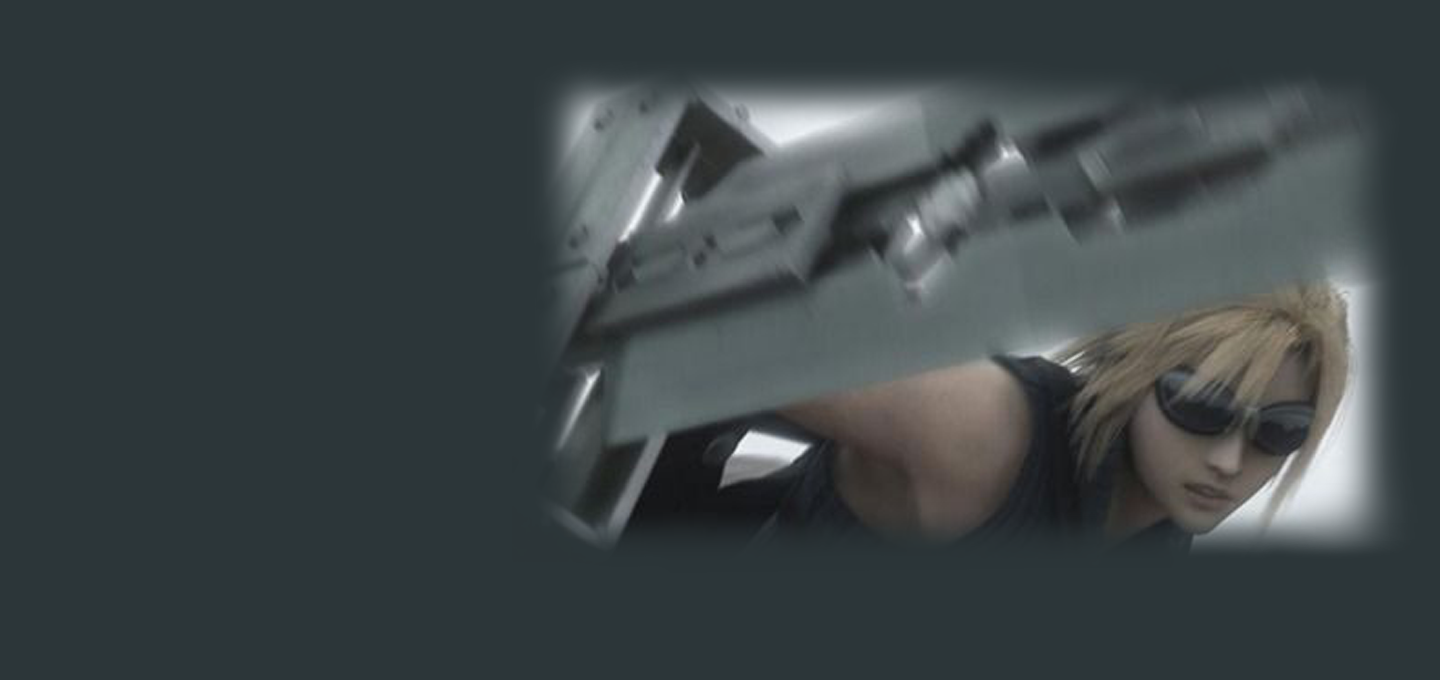
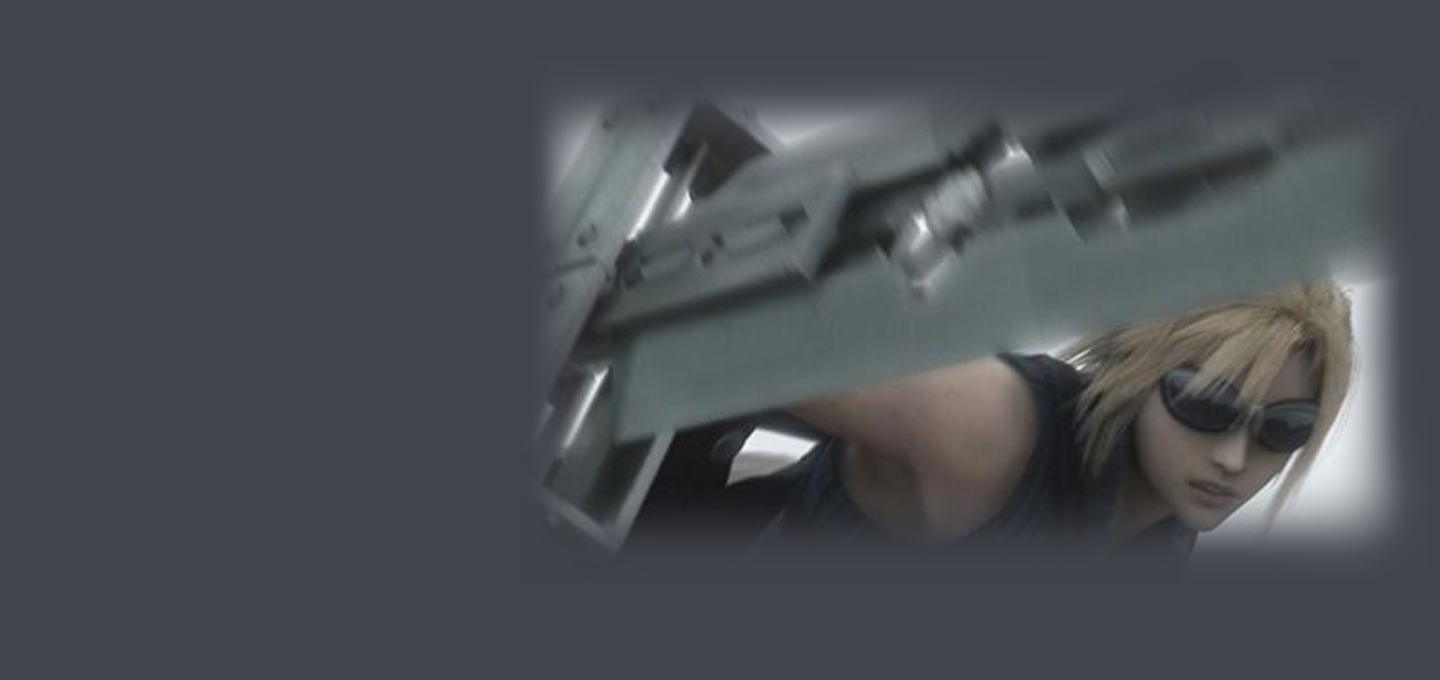
atualização 04/07/2023

diff --git a/cloud.plus/index.html b/cloud.plus/index.html
@@ -5,16 +5,91 @@
     <meta name="viewport" content="width=device-width, initial-scale=1.0">
     <title>Cloud Plus</title>
     <link rel="stylesheet" href="styles/style.css">
+    <link rel="preconnect" href="https://fonts.googleapis.com">
+    <link rel="preconnect" href="https://fonts.gstatic.com" crossorigin>
+    <link href="https://fonts.googleapis.com/css2?family=Inter:wght@400;700&display=swap" rel="stylesheet">
 </head>
 <body>
     <section class = "container principal">
-        <div>
-            <h1>Com o Combo+, você pode aproveitar o Cloud+ e o Cloud Tongue por um preço único.</h1>
-            <img src="./assex/Frame 1.png" alt="combo">
-            <a href="https://ffvii-remake-intergrade.square-enix-games.com/pt-br/?_gl=1*1295djt*_gcl_au*MzQ5Nzc0OS4xNjg4MDcxMzky" class="container__botao">assine por 12x de R$ 777,77*</a>
+        <div class="container__caixa">
+            <h1 class="container__titulo">Com o Combo+, você pode aproveitar o Cloud+ e o Cloud Tongue por um preço único.</h1>
+            <img class="container__imagem" src="./assex/Frame 1.png" alt="combo">
+            <a href="https://ffvii-remake-intergrade.square-enix-games.com/pt-br/?_gl=1*1295djt*_gcl_au*MzQ5Nzc0OS4xNjg4MDcxMzky" class="container__botao">Assine por 12x de R$ 777,77*</a>
             <a href="https://ffvii.square-enix-games.com/en-us/games/rebirth/?_gl=1*c58xfv*_gcl_au*MzQ5Nzc0OS4xNjg4MDcxMzky" class="container__botao botao__secundario">Assinar somente o Cloud+</a>
             <p class="container__aviso">*o preço pode variar caso a assinatura seja feita em outros planos.</p>
         </div>
     </section>
+
+    <section class="container secundario">
+        <img src="./assex/Plataformas-transformed.png" alt="mando mto na edicao de imagem" class="secundario__imagem">
+        <div class="container__descricao">
+            <h2 class="descricao__titulo">Jogue do seu jeito</h2>
+            <p class="descricao__texto">Aproveite a tela grande da TV ou jogue no tablet, laptop, celular e outros aparelhos. Nossa seleção de campanhas não para de crescer.</p>
+        </div>
+    </section>
+
+    <section class="container secundario">
+        <div class="container__descricao">
+            <p class="descricao__texto">Só o Combo+ oferece Cloud+ e Cloud Tongue juntos para você ter acesso a campanhas de diversas áreas da tecnologia e aprender inglês ou espanhol, onde e quando quiser.</p>
+            <a href="https://www.square-enix-games.com/en_US/home" class="container__botao secundario__botao">Assinar o Combo+</a>
+        </div>
+        <img src="./assex/Telas.png" alt="telinhas" class="secundario__imagem">
+    </section>
+
+    <section class="container secundario">
+        <img src="./assex/Notebook-transformed.png" alt="mando mto na edicao de imagem" class="secundario__imagem">
+        <div class="container__descricao">
+            <h2 class="descricao__titulo">Baixe seus jogos</h2>
+            <p class="descricao__texto">Baixe e jogue quando e onde quiser. Assim, seus favoritos estão sempre com você, até mesmo sem internet. </p>
+        </div>
+    </section>
+
+    <section class="dispositivos">
+        <h2 class="dispositivos__titulo">Disponível nos seus dispositivos favoritos</h2>
+        <ul class="dispositivos__lista">
+            <li>
+                <img src="./assex/tv.png" alt="tv">
+                <h3 class="lista__item">TV</h3>
+            </li>
+            <li>
+                <img src="./assex/computador.png" alt="computador">
+                <h3 class="lista__item">Computadores</h3>
+            </li>
+            <li>
+                <img src="./assex/celular.png" alt="celular">
+                <h3 class="lista__item">Celulares e Tablets</h3>
+            </li>
+        </ul>
+    </section>
+
+    <footer class="rodape">
+        <img src="./assex/Frame 2.png" alt="Cloud+" class="rodape__logo">
+        <ul class="rodape__lista">
+            <li class="lista__link">
+                <a href="#">Idioma</a>
+            </li>
+            <li class="lista__link">
+                <a href="#">Dispositivos compatíveis</a>
+            </li>
+            <li class="lista__link">
+                <a href="#">Contrato de assinatura</a>
+            </li>
+            <li class="lista__link">
+                <a href="#">Politica de privacidade</a>
+            </li>
+            <li class="lista__link">
+                <a href="#">Proteção de dados no Brasil</a>
+            </li>
+            <li class="lista__link">
+                <a href="#">Anuncios personalizados</a>
+            </li>
+            <li class="lista__link">
+                <a href="#">me Ajuda por favor</a>
+            </li>
+        </ul>
+        <p class="rodape__texto">® 2021 Alura, Alura+ e Alura Língua. Todos os direitos reservados. Serviço de assinatura paga. Conteúdo sujeito a disponibilidade.</p>
+        <p class="rodape__texto">Alura+ é um serviço pago, baseado em assinatura e sujeito a termos e condições. O serviço Alura+ é comercializado por Aovs Sistemas de Informática S.A., Rua Vergueiro, 3185 - Liberdade, São Paulo - SP, 04101-300, Brasil e CNPJ 05.555.382/0001-33</p>
+    </footer>
+
 </body>
 </html>

diff --git a/cloud.plus/styles/style.css b/cloud.plus/styles/style.css
@@ -6,27 +6,44 @@
 }
 
 :root {
-    --cor-primaria: #2C3639;
-    --cor-secundaria: #DCD7C9;
-    --cor-terciaria: #A27B5C;
-    --cor-quaternaria: #3F4E4F;
+    --cor-primaria: #41444B;
+    --cor-secundaria: #DFD8C8;
+    --cor-terciaria: #BBBB99;
+    --cor-quaternaria: #52575D;
+    --fonte-principal: 'Inter';
+    --cor-quintenaria: #e5e5c9;
+    
 }
 
 body {
     background-color: var(--cor-primaria);
     color: var(--cor-secundaria);
+    font-family: var(--fonte-principal);
+    font-size: 16px;
+    font-weight: 400;
 }
 
 .principal {
     background-image: url("../assex/Background.png");
     background-repeat: no-repeat;
     background-size: contain;
+    align-items: center;
+    text-align: center;
 }
 
 .container {
     height: 100vh;
     display: grid;
     grid-template-columns: 50% 50%;
+}
+
+.container__caixa {
+    margin: 0 6em;
+}
+
+.container__titulo {
+    font-size: 28px;
+    font-weight: 700;
 }
 
 .container__botao {
@@ -36,9 +53,108 @@ body {
     color: var(--cor-secundaria);
     text-decoration: none;
     display: block;
+    margin-bottom: 1em;
 }
 
 .botao__secundario {
     background-color: transparent;
     border: 2px solid var(--cor-secundaria)
+}
+
+.container__aviso {
+    font-size: 12px;
+    color: var(--cor-terciaria);
+}
+
+.container__imagem {
+    margin: 1em 0 2em 0;
+}
+
+.secundario {
+    align-items: center;
+    margin: 0 10em;
+}
+
+.secundario__imagem {
+    width: 80%;
+}
+
+.descricao__titulo {
+    font-weight: 700;
+    font-size: 48px;
+    color: var(--cor-secundaria);
+    margin-bottom: 0.1em;
+}
+
+.descricao__texto {
+    color: var(--cor-terciaria);
+}
+
+.secundario__botao {
+    display: inline-block;
+    margin-top: 1em;
+}
+
+.container__descricao {
+    padding: 2em;
+}
+
+.dispositivos {
+    text-align: center;
+}
+
+.dispositivos__titulo {
+    font-size: 48px;
+    color: var(--cor-secundaria);
+}
+
+.dispositivos__lista {
+    display: flex;
+    justify-content: center;
+    list-style-type: none;
+    margin: 5em 0;
+}
+
+.lista__item {
+    font-size: 32px;
+    color: var(--cor-secundaria);
+}
+
+.rodape__lista {
+    display: flex;
+    justify-content: center;
+    list-style-type: none;
+    margin-top: 1em;
+}
+
+.lista__link a{
+    text-decoration: none;
+    color: var(--cor-secundaria);
+    margin-left: 1em;
+}
+
+.rodape__texto {
+    margin: 1em 0;
+    color: var(--cor-terciaria);
+    font-size: 14px;
+}
+
+.rodape {
+    text-align: center;
+    margin: 5em 3em;
+}
+
+
+.lista__link a:hover {
+    color: var(--cor-quintenaria);
+}
+
+.lista__link a:active {
+    color: #889d71;
+}
+
+.container__botao:hover {
+    background-color: var(--cor-quintenaria);
+    color: var(--cor-primaria);
+
 }

diff --git a/aulinha-e-pa/index.html b/aulinha-e-pa/index.html
@@ -19,9 +19,9 @@
             <p class="apresentacao__conteudo__texto">Olá! Sou <span class="cloud__destaque">Cloud🤟</span>, desenvolvedor Front-end com especialidade em React, HTML e CSS. Ajudo pequenos negócios e designers a colocarem em prática boas ideias. Vamos conversar?</p>
         <div class="apresentacao__links" ;>
             <h2 class="apresentacao__links__subtitulo">Acesse minhas redes:</h2>
-            <a class="apresentacao__links__navegacao" href="https://www.instagram.com/wh0istokki/"><img src="./assets/instagram3.png"> Instagram </a>
-            <a class="apresentacao__links__navegacao" href="https://github.com/milkmia"><img src="./assets/github3.png"> Github</a>
-            <a class="apresentacao__links__navegacao" href="https://twitter.com/SAMEKCHI"><img src="./assets/twitter3.png"> Twitter</a>
+            <a class="apresentacao__links__navegacao" href="https://www.instagram.com/wh0istokki/"><img src="./assets/instagram4.png"> Instagram </a>
+            <a class="apresentacao__links__navegacao" href="https://github.com/milkmia"><img src="./assets/github4.png"> Github</a>
+            <a class="apresentacao__links__navegacao" href="https://twitter.com/SAMEKCHI"><img src="./assets/twitter4.png"> Twitter</a>
         </div>
         </section>
         <img class="apresentacao__imagem" src="./assets/cloud bordado.png" alt="nuvem">

diff --git a/aulinha-e-pa/styles/style.css b/aulinha-e-pa/styles/style.css
@@ -4,10 +4,10 @@
 @import url('https://fonts.cdnfonts.com/css/koch-fette-deutsche-schrift');
 
 :root {
-    --cor-primaria: #2C3639;
-    --cor-secundaria: #DCD7C9;
-    --cor-terciaria: #A27B5C;
-    --cor-quaternaria: #3F4E4F;
+    --cor-primaria: #41444B;
+    --cor-secundaria: #DFD8C8;
+    --cor-terciaria: #BBBB99;
+    --cor-quaternaria: #52575D;
 
     --fonte-primaria: 'Krona One', sans-serif;
     --fonte-secundaria: 'Montserrat', sans-serif;
@@ -112,7 +112,7 @@ body {
     gap: 10px;
 }
 
-.apresentacao__links__link:hover {
+.apresentacao__links__navegacao:hover {
     background-color: var(--cor-quaternaria);
     color: var(--cor-terciaria);
 }
